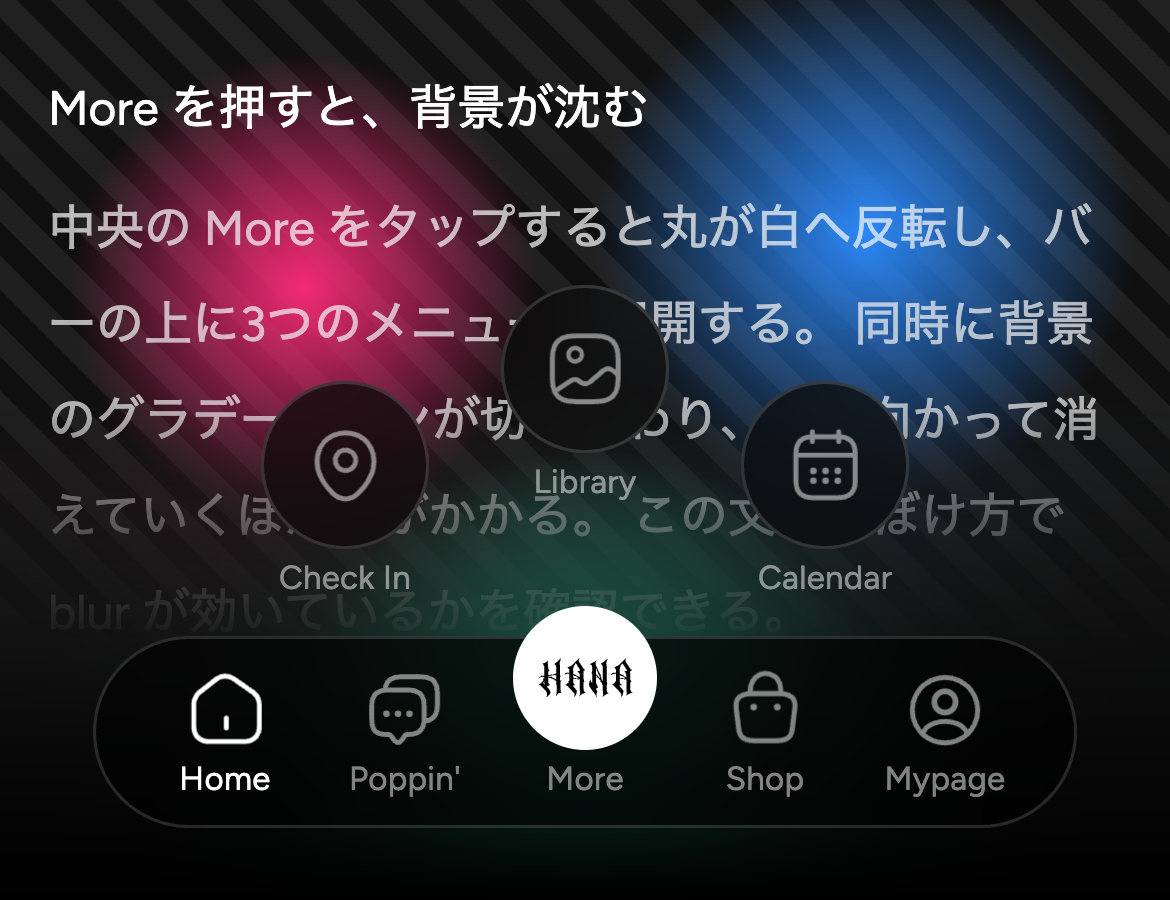
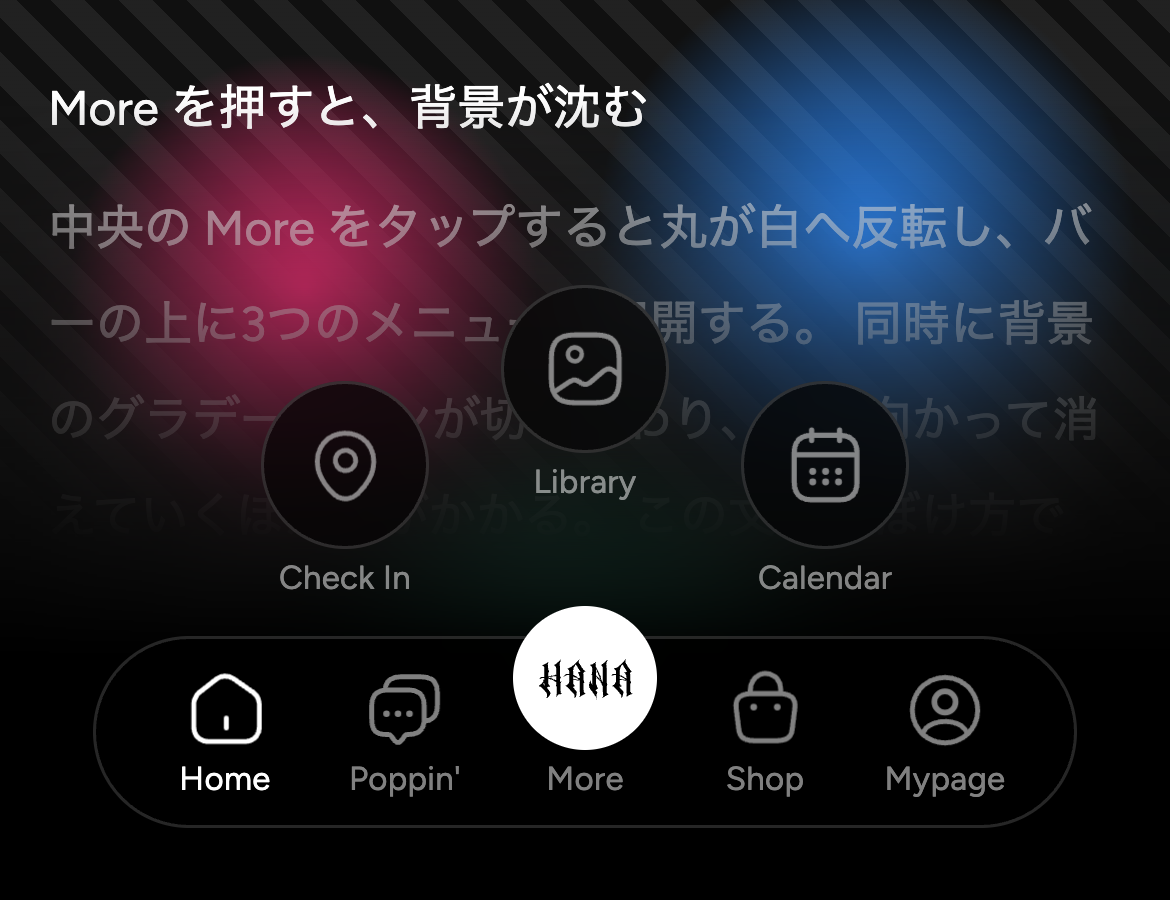
タブバー: デザイナー確定値(2026-07-29)を反映
微調整ツールの出力をそのまま tabbar-adjust.js に焼き込み、全所へ同期。

- 展開時の背景: blur 16 / 効き始め 0% / 全開 57% / 黒 .45(40%地点) → 1.0(70%地点)
  上から blur がかかり、70% 以降は真っ黒。Library 等のラベルがはっきり読める balance
- 中央 More を dy +0.4 に
- Flutter も同値へ(blurSigma 16 / blurFadeStart 0 / blurFadeEnd .57 / 黒の stops)
- コンポーネント / dist / デモ / 仕様書 / checkin / collection の6箇所で
  同じ値が出ることを実測確認。図版・配布zipも更新

diff --git a/docs/tabbar/assets/tab_bar_260726.dart b/docs/tabbar/assets/tab_bar_260726.dart
@@ -67,18 +67,17 @@ const MoreSpec kMoreSpec = MoreSpec(
   gapAboveBar: 12,
 );
 
-/// Lottie は素材ごとに内側の余白が違うため、同じ scale でも絵の実寸が揃わない。
-/// バー4つの実寸 22.0px を正とし、More メニューの3つも同じ実寸に合わせてある
-/// (数値が不揃いなのはそのため。勝手に丸めないこと)。
+/// デザイナー確定値(2026-07-29)。Lottie は素材ごとに内側の余白が違うため、
+/// 同じ scale でも絵の実寸は揃わない。数値は微調整ツールの出力をそのまま使うこと。
 const Map<String, TabAdjust> kTabAdjust = {
   'home': TabAdjust(dx: 0.5, dy: -0.6, scale: 1.30),
   'poppin': TabAdjust(dx: 0, dy: -0.4, scale: 1.55),
-  'more': TabAdjust(dx: 0, dy: 0, scale: 1.00),
+  'more': TabAdjust(dx: 0, dy: 0.4, scale: 1.00),
   'shop': TabAdjust(dx: 1.3, dy: -2.1, scale: 1.45),
   'mypage': TabAdjust(dx: 0, dy: 0, scale: 1.30),
-  'checkin': TabAdjust(dx: 0, dy: -1.1, scale: 1.46),
-  'gallery': TabAdjust(dx: 0, dy: -0.8, scale: 1.26),
-  'calendar': TabAdjust(dx: 0, dy: -1.3, scale: 1.37),
+  'checkin': TabAdjust(dx: 0, dy: -1.1, scale: 1.45),
+  'gallery': TabAdjust(dx: 0, dy: -0.8, scale: 1.30),
+  'calendar': TabAdjust(dx: 0, dy: -1.3, scale: 1.45),
 };
 
 /// iconsax の Lottie は冒頭に 160〜534ms の無動作フレームが焼き込まれている。
@@ -612,12 +611,12 @@ class TabBarBg260726 extends StatelessWidget {
   final bool open;
 
   static const double height = 268;
-  static const double blurSigma = 32;
+  static const double blurSigma = 16;
   /// blur の効き始め位置(0〜1)。0.4 ≒ 中央 Library ラベルのすぐ上。
   /// ここから下端へ向けて緩やかに強くなる(短い区間だと急変化に見える)。
-  static const double blurFadeStart = 0.38;
+  static const double blurFadeStart = 0.0;
   /// blur が全開になる位置。下げすぎると黒に隠れて blur が見えなくなる。
-  static const double blurFadeEnd = 0.70;
+  static const double blurFadeEnd = 0.57;
   static const Duration duration = Duration(milliseconds: 300);
 
   @override
@@ -680,7 +679,10 @@ class TabBarBg260726 extends StatelessWidget {
                   gradient: LinearGradient(
                     begin: Alignment.topCenter,
                     end: Alignment.bottomCenter,
-                    colors: [Color(0x00000000), Color(0xFF000000)], // 真っ黒
+                    // 黒の濃さ(確定値): 40%地点 0.45 / 70%地点 1.0(以降は真っ黒)
+                    stops: [0, 0.40, 0.70, 1],
+                    colors: [Color(0x00000000), Color(0x73000000),
+                             Color(0xFF000000), Color(0xFF000000)],
                   ),
                 ),
               ),

diff --git a/docs/tabbar/dist/tabbar-adjust.js b/docs/tabbar/dist/tabbar-adjust.js
@@ -7,30 +7,25 @@
 
    更新手順:
      1) index.html で「微調整」ON → 調整
-     2) 「確定値をコピー」ボタン → このファイルを丸ごと置き換え
-     3) 「Flutterコードをコピー」ボタン → flutter/tab_bar_260726.dart の
-        kMoreSpec / kTabAdjust を置き換え(同じ値をDart側にも反映)
-     4) 公開ページへ反映: badge/docs/tabbar/ に本ファイルをコピー
+     2) 「① 確定値をコピー」ボタン → このファイルを丸ごと置き換え
+     3) 「② Flutterコードをコピー」→ flutter/tab_bar_260726.dart の
+        kMoreSpec / kTabAdjust / TabBarBg260726 の定数を置き換え
+     4) 公開ページへ反映: node components/tabbar-260726/build-docs.mjs
 
-   global: Moreメニューのレイアウト(px)
-     circle = サテライト丸の直径 / pitch = 列ピッチ
-     drop   = サイド列を中央より下げる量 / mgap = メニュー下端→バー上端
-   items : アイコンごとの位置(dx,dy px)とスケール(s)
+   generated: 2026-07-29
    ========================================================================== */
-/* 確定: 2026-07-27
-   Lottie は素材ごとに内側の余白が違うため、同じ scale でも絵の実寸が揃わない
-   (静止状態の等倍で 14.2〜17.4px とバラバラ)。バー4つの実寸 22.0px を正とし、
-   More メニューの3つもその実寸に合わせてある。scale の数値が不揃いなのはそのため。 */
 window.TABBAR_ADJUST = {
   global: { circle: 56, pitch: 80, drop: 32, mgap: 12 },
+  /* 展開時の背景: blur半径 / 効き始め% / 全開% / 黒の濃さ(40%地点, 70%地点) */
+  bg: { blur: 16, from: 0, to: 57, k1: 0.45, k2: 1 },
   items: {
-    home:     { dx: 0.5, dy: -0.6, s: 1.30 },
-    poppin:   { dx: 0,   dy: -0.4, s: 1.55 },
-    more:     { dx: 0,   dy: 0,    s: 1.00 },
-    shop:     { dx: 1.3, dy: -2.1, s: 1.45 },
-    mypage:   { dx: 0,   dy: 0,    s: 1.30 },
-    checkin:  { dx: 0,   dy: -1.1, s: 1.46 },
-    gallery:  { dx: 0,   dy: -0.8, s: 1.26 },
-    calendar: { dx: 0,   dy: -1.3, s: 1.37 },
+    home:      { dx: 0.5, dy: -0.6, s: 1.3 },
+    poppin:    { dx: 0, dy: -0.4, s: 1.55 },
+    more:      { dx: 0, dy: 0.4, s: 1 },
+    shop:      { dx: 1.3, dy: -2.1, s: 1.45 },
+    mypage:    { dx: 0, dy: 0, s: 1.3 },
+    checkin:   { dx: 0, dy: -1.1, s: 1.45 },
+    gallery:   { dx: 0, dy: -0.8, s: 1.3 },
+    calendar:  { dx: 0, dy: -1.3, s: 1.45 },
   },
 };

diff --git a/docs/tabbar/tabbar-adjust.js b/docs/tabbar/tabbar-adjust.js
@@ -7,30 +7,25 @@
 
    更新手順:
      1) index.html で「微調整」ON → 調整
-     2) 「確定値をコピー」ボタン → このファイルを丸ごと置き換え
-     3) 「Flutterコードをコピー」ボタン → flutter/tab_bar_260726.dart の
-        kMoreSpec / kTabAdjust を置き換え(同じ値をDart側にも反映)
-     4) 公開ページへ反映: badge/docs/tabbar/ に本ファイルをコピー
+     2) 「① 確定値をコピー」ボタン → このファイルを丸ごと置き換え
+     3) 「② Flutterコードをコピー」→ flutter/tab_bar_260726.dart の
+        kMoreSpec / kTabAdjust / TabBarBg260726 の定数を置き換え
+     4) 公開ページへ反映: node components/tabbar-260726/build-docs.mjs
 
-   global: Moreメニューのレイアウト(px)
-     circle = サテライト丸の直径 / pitch = 列ピッチ
-     drop   = サイド列を中央より下げる量 / mgap = メニュー下端→バー上端
-   items : アイコンごとの位置(dx,dy px)とスケール(s)
+   generated: 2026-07-29
    ========================================================================== */
-/* 確定: 2026-07-27
-   Lottie は素材ごとに内側の余白が違うため、同じ scale でも絵の実寸が揃わない
-   (静止状態の等倍で 14.2〜17.4px とバラバラ)。バー4つの実寸 22.0px を正とし、
-   More メニューの3つもその実寸に合わせてある。scale の数値が不揃いなのはそのため。 */
 window.TABBAR_ADJUST = {
   global: { circle: 56, pitch: 80, drop: 32, mgap: 12 },
+  /* 展開時の背景: blur半径 / 効き始め% / 全開% / 黒の濃さ(40%地点, 70%地点) */
+  bg: { blur: 16, from: 0, to: 57, k1: 0.45, k2: 1 },
   items: {
-    home:     { dx: 0.5, dy: -0.6, s: 1.30 },
-    poppin:   { dx: 0,   dy: -0.4, s: 1.55 },
-    more:     { dx: 0,   dy: 0,    s: 1.00 },
-    shop:     { dx: 1.3, dy: -2.1, s: 1.45 },
-    mypage:   { dx: 0,   dy: 0,    s: 1.30 },
-    checkin:  { dx: 0,   dy: -1.1, s: 1.46 },
-    gallery:  { dx: 0,   dy: -0.8, s: 1.26 },
-    calendar: { dx: 0,   dy: -1.3, s: 1.37 },
+    home:      { dx: 0.5, dy: -0.6, s: 1.3 },
+    poppin:    { dx: 0, dy: -0.4, s: 1.55 },
+    more:      { dx: 0, dy: 0.4, s: 1 },
+    shop:      { dx: 1.3, dy: -2.1, s: 1.45 },
+    mypage:    { dx: 0, dy: 0, s: 1.3 },
+    checkin:   { dx: 0, dy: -1.1, s: 1.45 },
+    gallery:   { dx: 0, dy: -0.8, s: 1.3 },
+    calendar:  { dx: 0, dy: -1.3, s: 1.45 },
   },
 };
